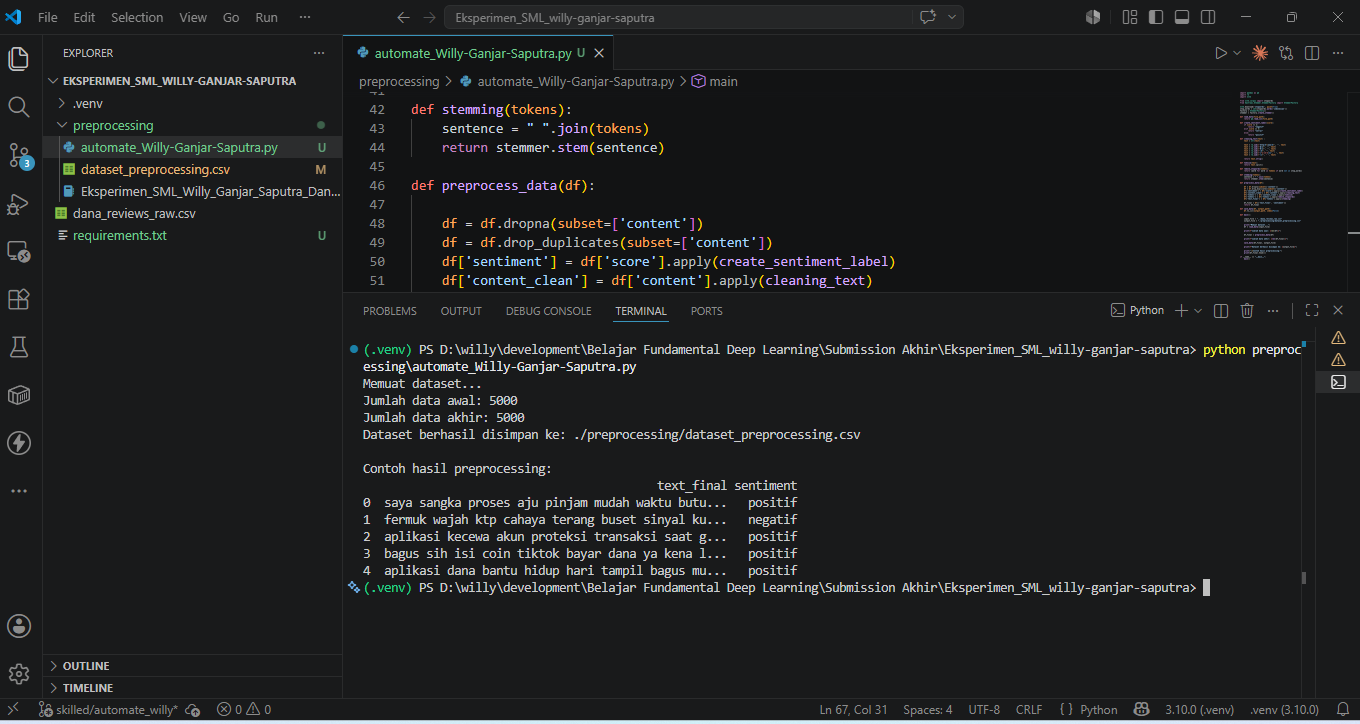
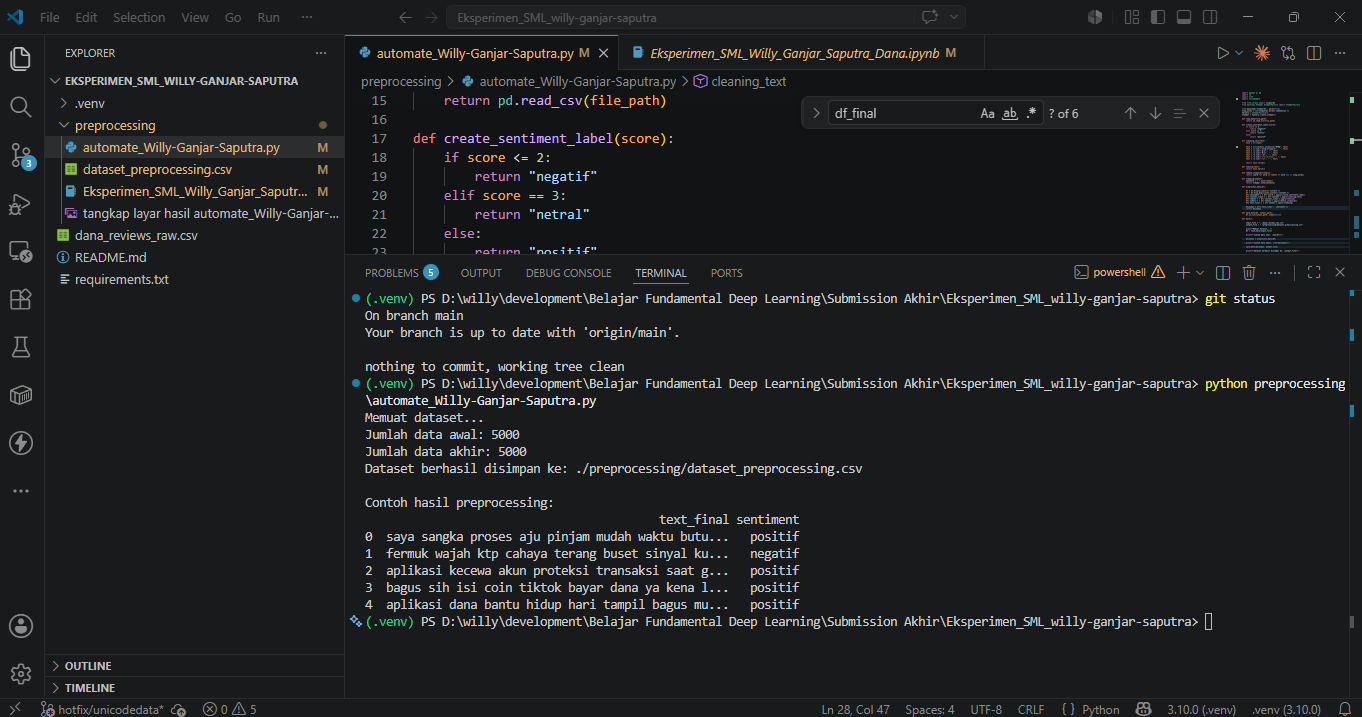
Normalisasi Unicode dilakukan untuk menangani karakter non-standar

diff --git a/preprocessing/automate_Willy-Ganjar-Saputra.py b/preprocessing/automate_Willy-Ganjar-Saputra.py
@@ -1,6 +1,7 @@
 import pandas as pd
 import re
 import nltk
+import unicodedata
 
 from nltk.corpus import stopwords
 from Sastrawi.Stemmer.StemmerFactory import StemmerFactory
@@ -24,6 +25,7 @@ def create_sentiment_label(score):
 def cleaning_text(text) :
     text = str(text)
 
+    text = unicodedata.normalize("NFKD", text)
     text = re.sub(r'http\S+|www\S+', '', text)
     text = re.sub(r'@\w+', '', text)
     text = re.sub(r'#\w+', '', text)